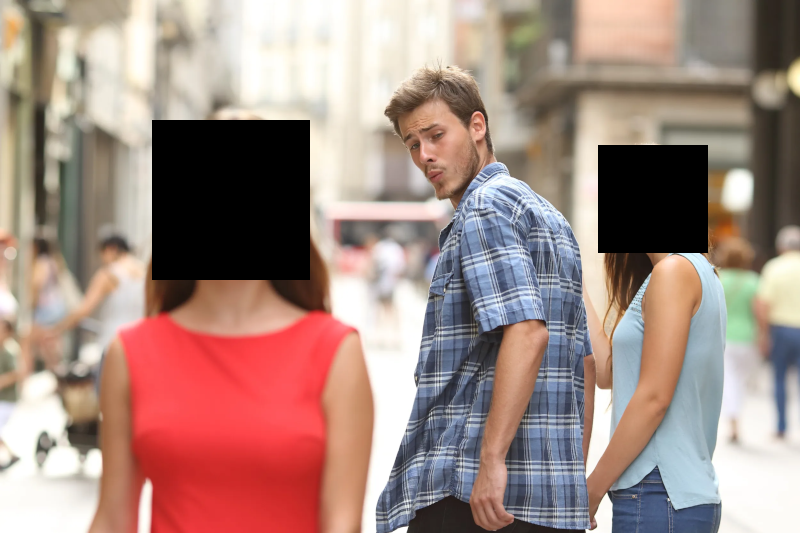
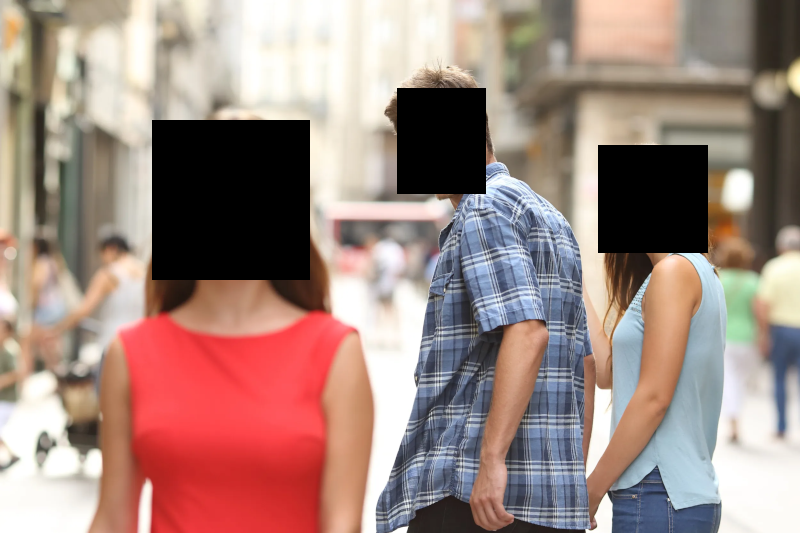
pfps

Changed region(s): [[0.4688, 0.1501, 0.625, 0.3902]]

diff --git a/commands.js b/commands.js
@@ -1,4 +1,5 @@
 import { bot, search } from './index.js';
+import { User } from 'discord.js';
 import { createCanvas, loadImage } from 'canvas';
 import drawText from 'node-canvas-text';
 import opentype from 'opentype.js';
@@ -11,15 +12,31 @@ import cfg from './cfg.js';
 const delSearchLimit = 25;
 const font = opentype.loadSync('./memetemplates/Kreon-Regular.ttf');
 
-async function meme(arg, options) {
+async function meme(msg, arg, options) {
     try {
         let args = arg.split('=');
         if (args.length != options.items.length)
             return {title: `This meme requires exactly ${options.items.length} item${options.items.length == 1 ? '' : 's'}. Separate items with the "=" symbol.`};
-        let items = args.map((a, i) => options.items[i] == 1 ? a : fn.find(a));
+        let items = await Promise.all(args.map(async (a, i) => {
+            a = a.trim();
+            if (a.startsWith('user?')) {
+                let id = a.slice(5)
+                let user;
+                if (id == 'me')
+                    user = msg.author;
+                else
+                    user = await bot.users.fetch(id).catch(e => {});
+                if (user) {
+                    user.image = await loadImage(user.avatarURL().replace('webp', 'png'));
+                    return user;
+                }
+            }
+            return options.items[i] == 1 ? a : fn.find(a);
+        }));
         for (let i in items) {
             if (options.items[i] == 0) {
                 let item = items[i];
+                if (items[i] instanceof User) continue;
                 item.embed = await embed({...item.item, score: item.score, query: arg});
                 if (item.embed.thumbnail == null)
                     return {title: `No image for ${item.item.itemType} "${item.item.name}"`};
@@ -36,7 +53,7 @@ async function meme(arg, options) {
                 ctx.drawImage(typeof p[0] == 'number' ? items[p[0]].image : await loadImage('./memetemplates/'+p[0]), p[1], p[2], p[3], p[4]);
         if (options.hasOwnProperty('texts'))
             for (let t of options.texts)
-                drawText.default(ctx, typeof items[t[0]] == 'string' ? items[t[0]] : items[t[0]].item.name.toUpperCase(), font,
+                drawText.default(ctx, typeof items[t[0]] == 'string' ? items[t[0]] : (items[t[0]] instanceof User ? items[t[0]].username : items[t[0]].item.name.toUpperCase()), font,
                     {x: t[1], y: t[2], width: t[3], height: t[4]}, 
                     {minSize: 5, maxSize: 200, vAlign: 'center', hAlign: 'center', textFillStyle: t[5], fitMethod: 'box', drawRect: false}
                 );
@@ -51,7 +68,7 @@ async function meme(arg, options) {
             title: ' ',
             image: {url: 'attachment://'+filename},
             files: [filename],
-            color: typeof items[0] == 'string' ? null : items[0].embed.color,
+            color: typeof items[0] == 'string' || items[0] instanceof User ? null : items[0].embed.color,
         };
     } catch(e) {
         console.error(e);
@@ -242,16 +259,18 @@ __Commands:__
         memes: () => ({
             title: 'Meme generator',
             description: `Some memes take more than one item, separate items with the "=" symbol.
+The bot can also take users as arguments, to grab their profile pictures, with <meme user?[userId]> for example: <user?${bot.user.id} my beloved>
+You can also use just "user?me" to specify yourself.
             
 __List of memes:__
 <megamind no [item]>
 <megamind textno [text]>
-<friendship ended [bad item]=[good item]>
+<friendship ended [bad item]=[good item]=[friender]>
 <coolerdaniel [daniel]=[coolerdaniel]>
 <19 dollar [fortnite card]>
-<distracted [gf]=[distraction]>
+<distracted [gf]=[distraction]=[bf]>
 <[item] my beloved>
-<why cant i hold all these [item]>
+<why cant i hold all these [item]=[holder]>
 <[item] speech bubble>
 <sb [item]=[text in speech bubble]>
 <sb [item1]=[text1]=[item2]=[text2]>
@@ -259,7 +278,7 @@ __List of memes:__
             thumbnail: {url: 'https://media.discordapp.net/attachments/802410376498249820/1002367368623825027/unknown.png?width=566&height=566'},
         }),
 
-        'megamind no ': async (msg, arg) => await meme(arg, {
+        'megamind no ': async (msg, arg) => await meme(msg, arg, {
             w: 640,
             h: 640,
             bg: 'mm.jpg',
@@ -267,7 +286,7 @@ __List of memes:__
             put: [[0, 182, 39, 354, 96]]
         }),
 
-        'megamind textno ': async (msg, _, __, oa) => await meme(oa, {
+        'megamind textno ': async (msg, _, __, oa) => await meme(msg, oa, {
             w: 640,
             h: 640,
             bg: 'mm.jpg',
@@ -275,13 +294,14 @@ __List of memes:__
             texts: [[0, 182, 39, 354, 96, 'white']]
         }),
 
-        'friendship ended ': async (msg, arg) => await meme(arg, {
+        'friendship ended ': async (msg, arg) => await meme(msg, arg, {
             w: 600,
             h: 450,
             bg: 'fse.png',
-            items: [0, 0],
+            items: [0, 0, 0],
             put: [
                 [1, 113, 66, 111, 107],
+                [2, 380, 103, 98, 127],
                 [0, 0, 247, 143, 200],
                 [0, 422, 271, 176, 177],
                 ['fsecross1.png', 4, 260, 135, 184],
@@ -293,7 +313,7 @@ __List of memes:__
             ]
         }),
 
-        'coolerdaniel ': async (msg, arg) => await meme(arg, {
+        'coolerdaniel ': async (msg, arg) => await meme(msg, arg, {
             w: 1452,
             h: 816,
             bg: 'daniel.png',
@@ -304,7 +324,7 @@ __List of memes:__
             ]
         }),
 
-        '19 dollar ': async (msg, arg) => await meme(arg, {
+        '19 dollar ': async (msg, arg) => await meme(msg, arg, {
             w: 779,
             h: 751,
             bg: '19dollar.png',
@@ -313,22 +333,23 @@ __List of memes:__
             texts: [[0, 82, 653, 622, 98, 'white']]
         }),
 
-        'distracted ': async (msg, arg) => await meme(arg, {
+        'distracted ': async (msg, arg) => await meme(msg, arg, {
             w: 800,
             h: 533,
             bg: 'distracted.png',
-            items: [0, 0],
+            items: [0, 0, 0],
             put: [
                 [0, 598, 145, 110, 108],
-                [1, 152, 120, 158, 160]
+                [1, 152, 120, 158, 160],
+                [2, 397, 88, 89, 106]
             ],
         }),
 
-        'why cant i hold all these ': async (msg, arg) => await meme(arg, {
+        'why cant i hold all these ': async (msg, arg) => await meme(msg, arg, {
             w: 450,
             h: 600,
             bg: 'hold.png',
-            items: [0],
+            items: [0, 0],
             put: [
                 [0, 116, 439, 38, 38],
                 [0, 225, 374, 44, 40],
@@ -338,6 +359,7 @@ __List of memes:__
                 [0, 105, 367, 45, 43],
                 ['holdhand.png', 87, 351, 253, 131],
                 [0, 221, 398, 48, 45],
+                [1, 139, 100, 124, 160],
             ],
             texts: [[0, 276, 518, 86, 48, 'white']]
         }),
@@ -362,12 +384,12 @@ __List of memes:__
                 options.put.push(['speechbubble2.png', 0+xOffset, 0, 200, 200]);
                 options.texts.push([2*i+1, 17+xOffset, 13, 164, 31, 'black']);
             }
-            return await meme(oa, options);
+            return await meme(msg, oa, options);
         },
     },
 
     suffix: {
-        ' my beloved': async (msg, arg) => await meme(arg, {
+        ' my beloved': async (msg, arg) => await meme(msg, arg, {
             w: 640,
             h: 480,
             bg: 'beloved.png',
@@ -376,7 +398,7 @@ __List of memes:__
             texts: [[0, 373, 130, 202, 71, 'black']]
         }),
 
-        ' speech bubble': async (msg, arg) => await meme(arg, {
+        ' speech bubble': async (msg, arg) => await meme(msg, arg, {
             w: 200,
             h: 200,
             bg: 'empty.png',

diff --git a/index.js b/index.js
@@ -29,6 +29,7 @@ export {bot, search};
 bot.once('ready', async () => {
     bot.user.setActivity('Downfall | <help>');
 	console.log('connected to discord. ready!');
+    await bot.users.fetch().catch(e => {});
     await bot.channels.fetch().catch(e => {});
     bot.channels.cache.each(channel => {
         if (channel.type == 'GUILD_TEXT')
